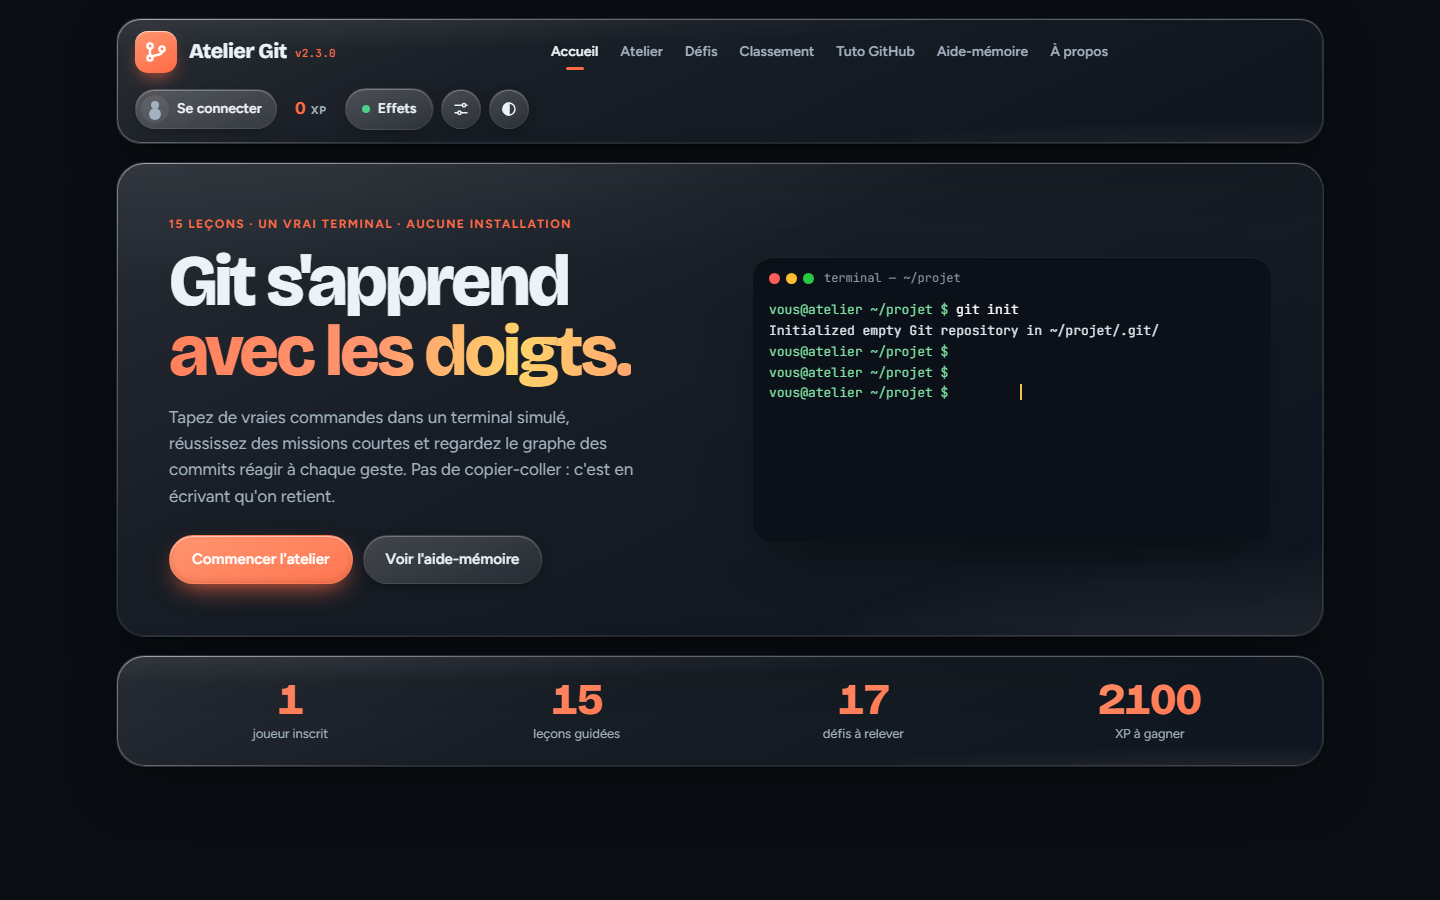
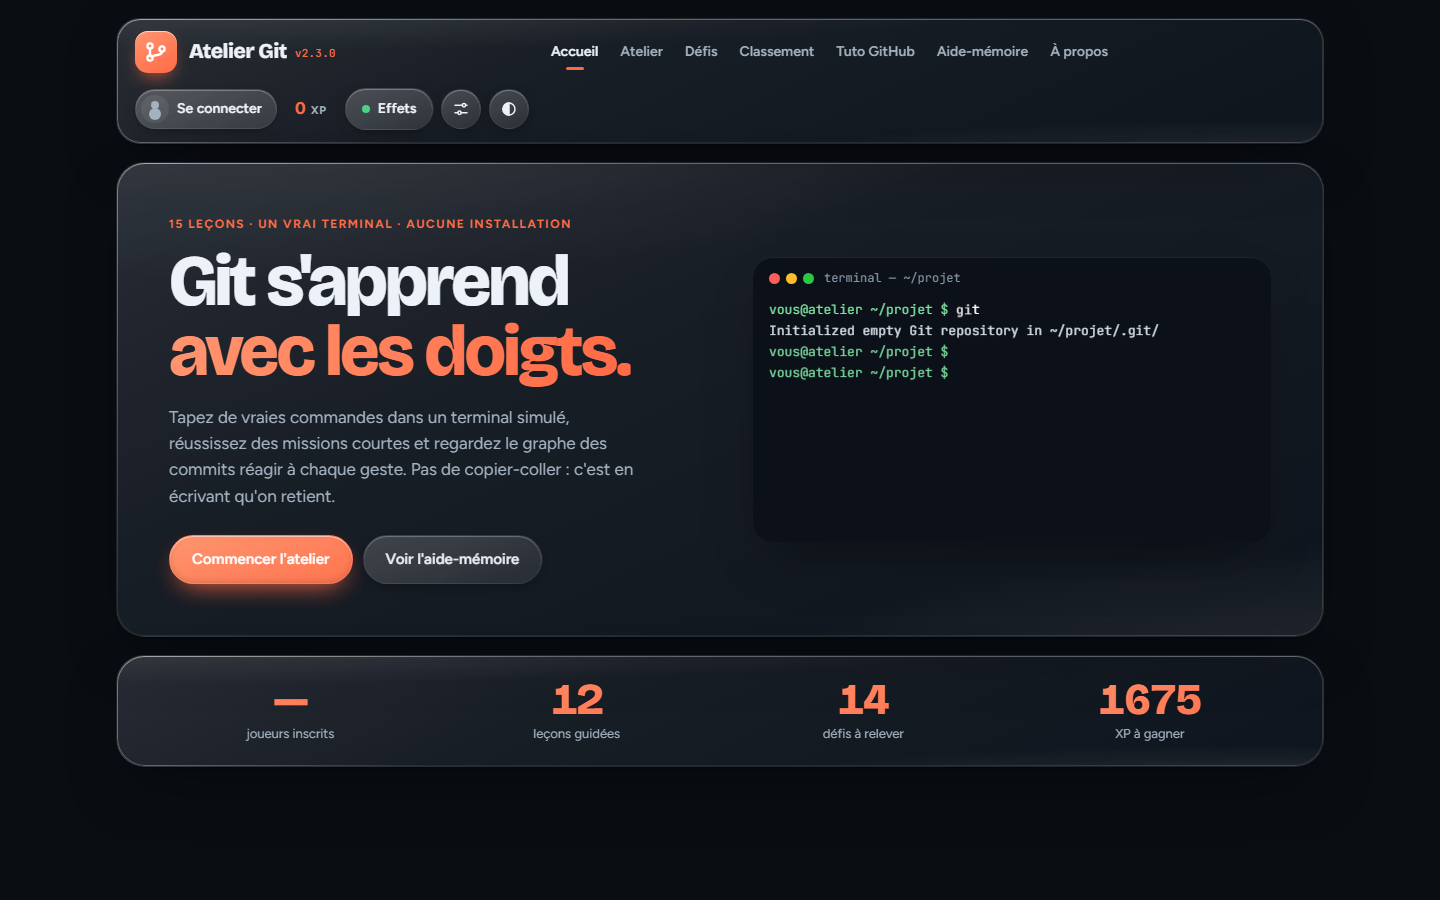
docs: README réorganisé, captures à jour

diff --git a/README.md b/README.md
@@ -1,93 +1,147 @@
 <div align="center">
 
-<a href="https://titangp1.github.io/atelier-git/"><img src="assets/apercu.png" alt="Atelier Git : apprendre Git en tapant de vraies commandes" width="820"></a>
+<a href="https://titangp1.github.io/atelier-git/"><img src="assets/apercu.png" alt="Atelier Git" width="760"></a>
 
-# Atelier Git
+<h1>Atelier Git</h1>
 
-**Apprendre Git en tapant de vraies commandes, directement dans le navigateur.**
+<p><b>Apprendre Git en tapant de vraies commandes, directement dans le navigateur.</b></p>
 
-[![Version](https://img.shields.io/badge/version-2.3.0-e8492b?style=for-the-badge)](https://github.com/Titangp1/atelier-git/releases)
-[![Essayer en ligne](https://img.shields.io/badge/essayer-en%20ligne-2ea44f?style=for-the-badge&logo=github)](https://titangp1.github.io/atelier-git/)
-[![Leçons](https://img.shields.io/badge/le%C3%A7ons-15-8957e5?style=for-the-badge)](https://titangp1.github.io/atelier-git/atelier.html)
-[![Défis](https://img.shields.io/badge/d%C3%A9fis-17-f0883e?style=for-the-badge)](https://titangp1.github.io/atelier-git/defis.html)
+<p>
+<a href="https://titangp1.github.io/atelier-git/"><img src="https://img.shields.io/badge/Essayer_en_ligne-e8492b?style=flat-square&logo=githubpages&logoColor=white" alt="Essayer en ligne"></a>
+<img src="https://img.shields.io/badge/version-2.3.0-1f2937?style=flat-square" alt="Version 2.3.0">
+<img src="https://img.shields.io/badge/le%C3%A7ons-15-1f2937?style=flat-square" alt="15 leçons">
+<img src="https://img.shields.io/badge/d%C3%A9fis-17-1f2937?style=flat-square" alt="17 défis">
+<img src="https://img.shields.io/badge/installation-aucune-1f2937?style=flat-square" alt="Aucune installation">
+</p>
 
-[**▶ Ouvrir l'atelier**](https://titangp1.github.io/atelier-git/) · [Tuto GitHub](https://titangp1.github.io/atelier-git/github.html) · [Aide-mémoire](https://titangp1.github.io/atelier-git/aide-memoire.html) · [Classement](https://titangp1.github.io/atelier-git/classement.html)
+<p>
+<a href="https://titangp1.github.io/atelier-git/atelier.html">Atelier</a> ·
+<a href="https://titangp1.github.io/atelier-git/defis.html">Défis</a> ·
+<a href="https://titangp1.github.io/atelier-git/github.html">Tuto GitHub</a> ·
+<a href="https://titangp1.github.io/atelier-git/aide-memoire.html">Aide-mémoire</a> ·
+<a href="https://titangp1.github.io/atelier-git/classement.html">Classement</a>
+</p>
 
-Réalisé par **Titan_gp1**
+<sub>Réalisé par <b>Titan_gp1</b></sub>
 
 </div>
 
----
+<br>
 
-## Aperçu
+<img src="docs/atelier.png" alt="L'atelier : la leçon, le graphe des commits, les trois zones de Git et le terminal" width="100%">
 
-<p align="center"><img src="docs/atelier.png" alt="L'atelier : la leçon à gauche, le graphe des commits, les trois zones de Git et le terminal à droite" width="100%"></p>
+## Sommaire
+
+- [Présentation](#présentation)
+- [Captures](#captures)
+- [Le parcours](#le-parcours)
+- [Les défis](#les-défis)
+- [Les pages](#les-pages)
+- [Lancer en local](#lancer-en-local)
+- [Comptes et classement](#comptes-et-classement)
+- [Commandes simulées](#commandes-simulées)
+- [Versions](#versions)
+- [Crédits](#crédits)
+
+## Présentation
+
+Atelier Git simule un dépôt, un terminal et un serveur distant dans le navigateur. On tape de vraies commandes, et le graphe des commits montre aussitôt ce qu'elles changent.
+
+| Fonction | Détail |
+|:--|:--|
+| **15 leçons** | Une explication courte, puis des missions qui se valident toutes seules. |
+| **17 défis** | Un dépôt préparé, un objectif, aucune commande imposée. De 30 à 150 XP. |
+| **Tuto GitHub** | Pour de vrai : compte, installation, connexion, premier `push`, erreurs fréquentes. |
+| **Terminal simulé** | Les vrais messages de Git, avec des astuces en français. |
+| **Graphe en direct** | Commits, branches et trois zones (travail, index, dépôt) mis à jour à chaque commande. |
+| **Comptes** | Connexion par email ou Google, XP vérifiés par le serveur, classement public. |
+| **Options** | Taille du terminal, texte agrandi, animations réduites, mode expert, thème clair ou sombre. |
+
+> [!NOTE]
+> Le copier-coller est désactivé : les commandes s'apprennent en les tapant. Un indice se dévoile à la demande.
+
+| Raccourci | Action |
+|:--|:--|
+| <kbd>/</kbd> | Revenir au terminal |
+| <kbd>↑</kbd> <kbd>↓</kbd> | Historique des commandes |
+| <kbd>Tab</kbd> | Compléter une commande |
+| <kbd>Ctrl</kbd> + <kbd>C</kbd> | Annuler la ligne en cours |
+
+## Captures
 
 <table>
   <tr>
-    <td width="50%"><img src="docs/accueil.png" alt="Page d'accueil"></td>
-    <td width="50%"><img src="docs/defis.png" alt="Page des défis"></td>
+    <td width="50%" align="center"><img src="docs/accueil.png" alt="Accueil"><br><sub><b>Accueil</b></sub></td>
+    <td width="50%" align="center"><img src="docs/defis.png" alt="Défis"><br><sub><b>Défis</b></sub></td>
   </tr>
   <tr>
-    <td align="center"><sub>L'accueil</sub></td>
-    <td align="center"><sub>Les défis, de Facile à Expert</sub></td>
+    <td colspan="2" align="center"><img src="docs/tuto-github.png" alt="Tuto GitHub" width="70%"><br><sub><b>Tuto GitHub</b></sub></td>
   </tr>
 </table>
 
-## ✨ Ce qu'on y trouve
+## Le parcours
 
-| | |
-|---|---|
-| 📚 **15 leçons guidées** | Du premier `git init` au `rebase`, avec une explication courte et des missions qui se valident toutes seules. |
-| 🏆 **17 défis** | Un dépôt préparé, un objectif, aucune commande imposée. De 30 à 150 XP selon la difficulté. |
-| 🐙 **Tuto GitHub** | Pour de vrai : créer son compte, installer Git, se connecter, faire son premier `push`, régler les erreurs fréquentes. |
-| 💻 **Terminal simulé** | Les vrais messages de Git, avec des astuces en français en cas d'erreur. |
-| 🌳 **Graphe en direct** | Les commits, les branches et les trois zones (travail, index, dépôt) réagissent à chaque commande. |
-| 👤 **Comptes et classement** | Connexion par email ou Google, XP vérifiés par le serveur, classement public. |
-| ⚙ **Options** | Taille du terminal, texte agrandi, animations réduites, mode expert sans indices, thème clair ou sombre. |
-
-> [!NOTE]
-> Pas de copier-coller : les commandes s'apprennent en les tapant. Un indice se dévoile à la demande si vous bloquez.
-
-### Le parcours
-
-| Débutant | Intermédiaire | Avancé |
-|---|---|---|
-| Votre premier dépôt | Versions et annulation | Travailler à plusieurs |
-| Configurer Git | Les branches | Publier sur GitHub |
-| Les trois zones | Fusionner des branches | Mettre de côté (`stash`) |
-| Renommer et supprimer | Résoudre un conflit | Un historique linéaire (`rebase`) |
-| Voyager dans l'historique | Ignorer et enquêter | Réparer ses erreurs |
+| # | Leçon | Commandes | Niveau | XP |
+|:-:|:--|:--|:--|--:|
+| 1 | Votre premier dépôt | `init` `add` `commit` | Débutant | 50 |
+| 2 | Configurer Git | `config` alias | Débutant | 50 |
+| 3 | Les trois zones | `status` `diff` `add` | Débutant | 50 |
+| 4 | Renommer et supprimer | `mv` `rm` `rm --cached` | Débutant | 50 |
+| 5 | Voyager dans l'historique | `log` `restore` `reset` | Débutant | 50 |
+| 6 | Versions et annulation | `tag` `show` `revert` | Intermédiaire | 50 |
+| 7 | Les branches | `branch` `switch` | Intermédiaire | 50 |
+| 8 | Fusionner des branches | `merge` | Intermédiaire | 50 |
+| 9 | Résoudre un conflit | `merge` conflit | Intermédiaire | 60 |
+| 10 | Travailler à plusieurs | `remote` `push` `pull` | Avancé | 60 |
+| 11 | Publier sur GitHub | `remote` `push -u` `--tags` | Avancé | 60 |
+| 12 | Mettre de côté | `stash` | Avancé | 50 |
+| 13 | Un historique linéaire | `rebase` | Avancé | 60 |
+| 14 | Ignorer et enquêter | `.gitignore` `blame` | Intermédiaire | 50 |
+| 15 | Réparer ses erreurs | `amend` `reflog` `cherry-pick` | Avancé | 60 |
 
 Plus un **bac à sable** pour tout essayer librement.
 
-### Raccourcis
+## Les défis
 
-| Touche | Action |
-|---|---|
-| <kbd>/</kbd> | Revenir au terminal |
-| <kbd>↑</kbd> <kbd>↓</kbd> | Historique des commandes |
-| <kbd>Tab</kbd> | Compléter |
-| <kbd>Ctrl</kbd>+<kbd>C</kbd> | Annuler la ligne en cours |
+| Difficulté | XP | Défis |
+|:--|--:|:--|
+| Facile | 30 | Premier pas · Oups, pas ce fichier · Version 1.0 · Mauvais nom · Raccourcis |
+| Moyen | 60 | Grand ménage · Sauvetage de branche · Une seule histoire · Fuite de clé · Urgence en plein travail |
+| Difficile | 100 | Double conflit · Le bon commit · Message honteux · Mise en ligne |
+| Expert | 150 | Course contre Léa · Qui a cassé le site ? · Ligne droite |
 
-## 🗂 Les pages
+Au total : **800 XP** de leçons + **1 300 XP** de défis = **2 100 XP**.
+
+## Les pages
 
 | Page | Fichier | Contenu |
-|---|---|---|
-| Accueil | `index.html` | Présentation, démo animée, progression, parcours |
-| Atelier | `atelier.html` | Leçons, terminal, graphe. Chaque leçon a son adresse : `atelier.html#branches` |
-| Défis | `defis.html` | Les 17 défis par difficulté |
+|:--|:--|:--|
+| Accueil | `index.html` | Présentation, démo animée, progression |
+| Atelier | `atelier.html` | Leçons, terminal et graphe. Une adresse par leçon : `atelier.html#branches` |
+| Défis | `defis.html` | Les 17 défis, filtrables par difficulté |
 | Classement | `classement.html` | Les joueurs rangés par XP |
 | Tuto GitHub | `github.html` | Relier un vrai dossier à un vrai dépôt GitHub |
 | Aide-mémoire | `aide-memoire.html` | Toutes les commandes, avec une recherche |
 | Compte | `compte.html` | Inscription, connexion, pseudo, suppression |
 | À propos | `a-propos.html` | Crédits et historique des versions |
 
-Le code est dans `assets/` : `style.css` (style commun), `site.js` (code partagé), `atelier.js` (moteur Git, leçons et défis), `pages.js` (code des autres pages).
+```text
+atelier-git/
+├── *.html               les 8 pages du site
+├── assets/
+│   ├── style.css        style commun
+│   ├── site.js          code partagé (thème, effets, comptes, options)
+│   ├── atelier.js       moteur Git simulé, leçons et défis
+│   ├── pages.js         accueil, défis, classement, compte, tuto
+│   └── config.js        configuration Firebase
+├── firebase/
+│   └── firestore.rules  règles de sécurité
+└── docs/                captures du README
+```
 
-## 🚀 Lancer en local
+## Lancer en local
 
-Aucune installation : double-cliquez sur `index.html`. Pour que les comptes marchent, servez plutôt le dossier :
+Aucune installation : ouvrez `index.html` dans un navigateur. Pour que les comptes fonctionnent, servez plutôt le dossier :
 
 ```bash
 python -m http.server 8000
@@ -95,16 +149,19 @@ python -m http.server 8000
 
 puis ouvrez <http://localhost:8000>.
 
-## 🔐 Comptes et classement (Firebase)
+## Comptes et classement
+
+Les comptes passent par [Firebase](https://firebase.google.com) (offre gratuite) : *Authentication* pour la connexion, *Firestore* pour les profils.
 
 <details>
-<summary>Mise en place dans la console Firebase</summary>
+<summary><b>Mise en place dans la console Firebase</b></summary>
+<br>
 
 1. Créer un projet, y ajouter une application **Web** et copier son objet `firebaseConfig`.
-2. *Authentication → Sign-in method* : activer **Adresse e-mail/Mot de passe** et **Google**.
+2. *Authentication → Sign-in method* : activer **E-mail/Mot de passe** et **Google**.
 3. *Authentication → Paramètres → Domaines autorisés* : ajouter `titangp1.github.io`.
 4. *Firestore Database* : créer la base en mode production.
-5. *Firestore → Règles* : coller le contenu de `firebase/firestore.rules`, puis **Publier**.
+5. *Firestore → Règles* : coller `firebase/firestore.rules`, puis **Publier**.
 6. Coller l'objet `firebaseConfig` dans `assets/config.js`.
 
 </details>
@@ -112,60 +169,34 @@ puis ouvrez <http://localhost:8000>.
 > [!IMPORTANT]
 > Après chaque modification de `firebase/firestore.rules`, recollez le fichier dans *Firestore → Règles* et publiez.
 
-La configuration Web de Firebase est publique par conception : la sécurité vient des règles. Elles vérifient que chacun ne modifie que son propre profil, que les XP correspondent exactement aux leçons et défis réussis (2100 XP au maximum), que la progression ne peut que grandir et que chaque pseudo est unique. Aucun email n'est stocké dans le classement. Sans compte, rien n'est gardé.
+**Sécurité.** La configuration Web de Firebase est publique par conception : la protection vient des règles. Chacun ne modifie que son propre profil, les XP doivent correspondre exactement aux leçons et défis réussis, la progression ne peut que grandir et chaque pseudo est unique. Aucun email n'est stocké dans le classement. Sans compte, rien n'est enregistré.
 
-## 🧰 Commandes simulées
+## Commandes simulées
 
 `init` `clone` `config` `status` `add` `rm` `mv` `commit` `restore` `reset` `clean` `log` `show` `diff` `blame` `reflog` `branch` `switch` `checkout` `merge` `rebase` `cherry-pick` `revert` `stash` `tag` `remote` `push` `fetch` `pull`, les alias et `.gitignore`.
 
 Les modes interactifs (`git add -p`, `git rebase -i`) ne sont pas simulés : l'atelier explique ce qu'ils font.
 
-## 📜 Historique des versions
+## Versions
 
-<details open>
-<summary><b>v2.3.0</b> · Tuto GitHub, leçons et options</summary>
+| Version | Nouveautés |
+|:--|:--|
+| **2.3.0** | Page Tuto GitHub · 4 leçons · 6 défis · panneau Options · pastilles de couleur dans les zones |
+| 2.2.0 | 11 défis · nombre de joueurs · animations · progression gardée uniquement sur le compte |
+| 2.1.0 | Comptes (email et Google) · classement · XP vérifiés par le serveur |
+| 2.0.0 | Site en plusieurs pages · plus aucune commande insérée automatiquement |
+| 1.4.0 | Écran de chargement · copier-coller désactivé |
+| 1.3.0 | Fluidité · bouton Effets · frappe façon macOS |
+| 1.2.0 | 2 leçons · `.gitignore`, `reflog`, `blame`, `cherry-pick` |
+| 1.1.0 | Corrections · accessibilité · réfraction du verre |
+| 1.0.0 | Première version : 9 leçons et bac à sable |
 
-- Nouvelle page **Tuto GitHub** : du compte au premier `push`, avec votre pseudo et votre dépôt dans les commandes.
-- 4 leçons : Configurer Git, Renommer et supprimer, Versions et annulation, Publier sur GitHub.
-- 6 défis : Mauvais nom, Raccourcis, Fuite de clé, Urgence en plein travail, Mise en ligne, Ligne droite.
-- Panneau **Options**. Règles Firestore mises à jour.
-
-</details>
-
-<details>
-<summary><b>v2.2.0</b> · Défis et animations</summary>
-
-- Onze défis de Facile à Expert, de 30 à 150 XP, avec indice et chronomètre.
-- Nombre de joueurs inscrits affiché sur tout le site.
-- Transitions entre les pages, confettis, compteurs animés, « +XP » qui s'envole.
-- La progression n'est gardée que sur un compte connecté.
-
-</details>
-
-<details>
-<summary><b>v2.1.0</b> · Comptes et classement</summary>
-
-- Inscription avec un pseudo, connexion par email ou Google, suppression du compte.
-- Classement par XP avec médailles et rang personnel ; XP vérifiés par les règles Firestore.
-
-</details>
-
-<details>
-<summary><b>v2.0.0 et avant</b></summary>
-
-- **2.0.0** : le site passe en plusieurs pages ; plus aucune commande ne s'écrit toute seule.
-- **1.4.0** : écran de chargement, copier-coller désactivé, <kbd>Ctrl</kbd>+<kbd>C</kbd> dans le terminal.
-- **1.3.0** : page beaucoup plus fluide, bouton « Effets », frappe fluide façon macOS.
-- **1.2.0** : deux leçons, `.gitignore`, `reflog`, `blame`, `cherry-pick` et de nombreuses options.
-- **1.1.0** : corrections, accessibilité, vraie réfraction du verre.
-- **1.0.0** : première version, 9 leçons et bac à sable.
-
-</details>
-
-## 🙏 Crédits
+## Crédits
 
 Conçu et réalisé par **Titan_gp1**.
 
 - Réfraction du verre portée de [liquid-glass-js](https://github.com/dashersw/liquid-glass-js) (© 2025 Armagan Amcalar, licence MIT).
 - Aide-mémoire organisé d'après celui de [git-scm.com](https://git-scm.com/cheat-sheet).
 - Polices : Bricolage Grotesque, Figtree et JetBrains Mono (Google Fonts).
+
+<div align="center"><sub>Atelier Git · v2.3.0 · Titan_gp1</sub></div>
